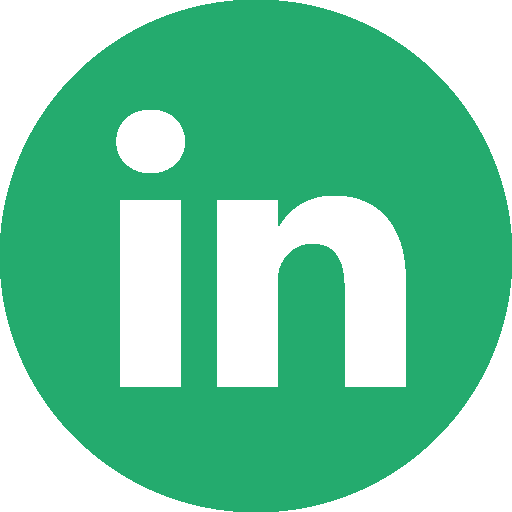
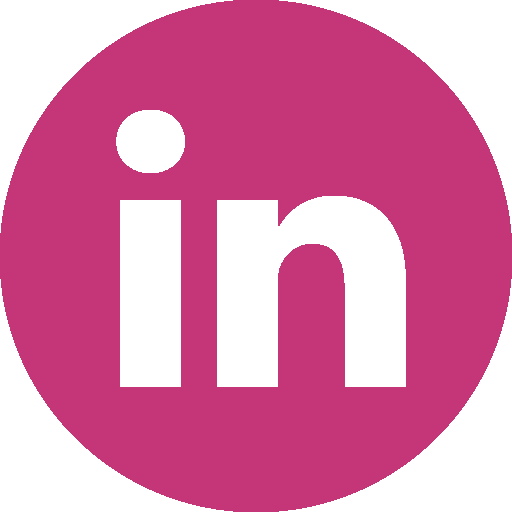
New color scheme drop!!!

diff --git a/style.css b/style.css
@@ -10,7 +10,7 @@
 
 body {
     font-family: "Poppins", sans-serif;
-    background: #000000;
+    background: #ffffff;
 }
 
 html{
@@ -18,7 +18,7 @@ html{
 }
 
 p{
-    color: #ffffff;
+    color: #000000;
 }
 
 /* TRANSITION */
@@ -46,7 +46,7 @@ nav{
 }
 
 a {
-    color: #ffffff;
+    color: #000000;
     text-decoration: none;
     font-size: 18px;
     position: relative;
@@ -56,7 +56,7 @@ a::after{
     content: '';
     width: 0;
     height: 3px;
-    background: #24ab6e;
+    background: #C53678;
     position: absolute;
     left: 0;
     bottom: 0px;
@@ -94,7 +94,7 @@ a:hover::after{
 .phone-icon span {
     width: 100%;
     height: 2px;
-    background-color: #24ab6e;
+    background-color: #FF5841;
     transition: all 0.3 ease-in-out;
 }
 
@@ -102,7 +102,7 @@ a:hover::after{
     position: absolute;
     top: 100%;
     right: 0;
-    background-color: #000000;
+    background-color: #ffffff;
     width: fit-content;
     max-height: 0;
     overflow: hidden;
@@ -114,7 +114,7 @@ a:hover::after{
     padding: 10px;
     text-align: center;
     font-size: 1.5rem;
-    color: #ffffff;
+    color: #000000;
     text-decoration: none;
     transition: all 0.3 ease-in-out;
 }
@@ -182,7 +182,7 @@ section {
     align-self: center;
 }
 .name_title {
-    color: #24ab6e;
+    color: #FF5841;
 }
 .section_text p {
     font-weight: 600;
@@ -224,7 +224,7 @@ section {
 }
 
 .btn-1 {
-    color: #24ab6e;
+    color: #C53678;
     cursor: pointer;
 }
 
@@ -232,11 +232,11 @@ section {
 
 #about{
     padding: 80px 0;
-    color: #ffffff;
+    color: #000000;
     padding-bottom: 4rem;
 }
 .about-col-2 h1 {
-    color: #ffffff;
+    color: #FF5841;
     font-size: 35px;
 }
 .row{
@@ -269,7 +269,7 @@ section {
 .sub-title{
     font-size: 60px;
     font-weight: 600;
-    color: #24ab6e;
+    color: #FF5841;
 }
 .tab-titles{
     display: flex;
@@ -286,7 +286,7 @@ section {
     content: '';
     width: 0;
     height: 3px;
-    background: #24ab6e;
+    background: #C53678;
     position: absolute;
     left: 0;
     bottom: -8px;
@@ -306,7 +306,7 @@ section {
 }
 
 .tab-contents ul li span{
-    color: #24ab6e;
+    color: #FF5841;
     font-size: 16px;
 }
 
@@ -320,7 +320,7 @@ section {
     width: calc(48% - 2.5rem);
     background-color: #ffffff;
     margin-bottom: 20px;
-    border: #24ab6e 0.1rem solid;
+    border: #C53678 0.1rem solid;
     text-align: center;
     box-sizing: border-box;
     border-radius: 10px;
@@ -330,7 +330,7 @@ section {
 #projects {
     position: relative;
     margin-top: 5.5rem;
-    color: #24ab6e ;
+    color: #FF5841 ;
 }
 
 .project-sub-title {
@@ -371,7 +371,7 @@ article {
     margin-top: 5rem;
     padding: 1rem;
     background-color: #fff;
-    border: #24ab6e 0.1rem solid;
+    border: #C53678 0.1rem solid;
     border-radius: 10px;
     text-align: center;
     max-width: 600px;
@@ -403,7 +403,7 @@ article {
     width: 100%;
     padding: 8px;
     box-sizing: border-box;
-    border: 1px solid #24ab6e;
+    border: 1px solid #C53678;
     border-radius: 5px;
     resize: none; /* Disable resizing */
     display: block; /* Ensure the textarea is a block-level element */
@@ -411,7 +411,7 @@ article {
 }
 
 #contact button {
-    background-color: #24ab6e;
+    background-color: #C53678;
     color: #fff;
     cursor: pointer;
     font-weight: 600;
@@ -425,13 +425,13 @@ article {
 }
 
 #msg{
-    color: #24ab6e;
+    color: #C53678;
     display: block;
 }
 
 footer {
-    background-color: #000000;
-    color: #fff;
+    background-color: #fff;
+    color: #000000;
     text-align: center;
     padding: 1rem;
     position: fixed;
